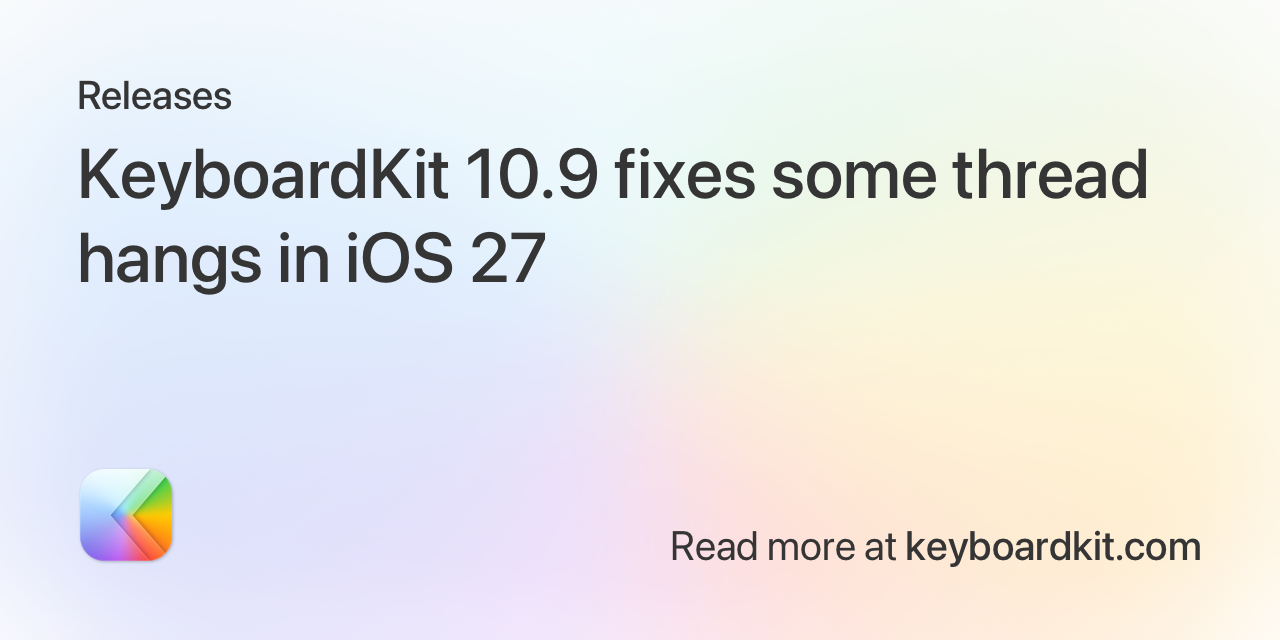
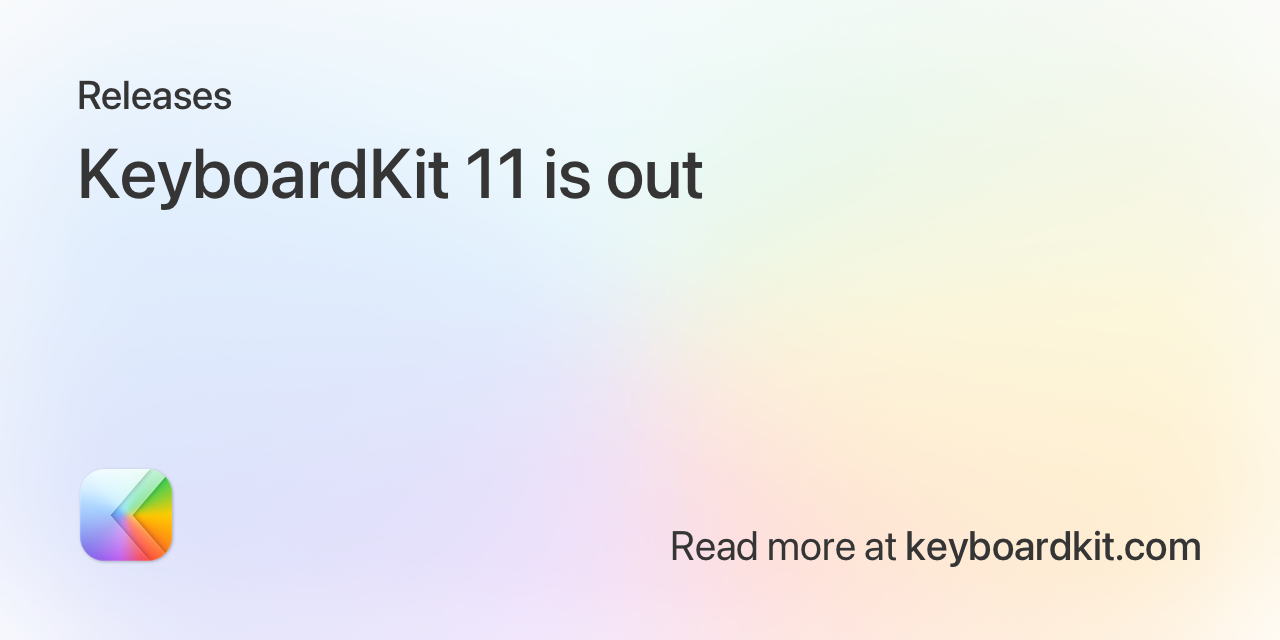
Add new KeyboardKit 11 blog post

Changed region(s): [[0.375, 0.2188, 0.9062, 0.3125], [0.0625, 0.3438, 0.4375, 0.4688]]

diff --git a/collections/_posts/2026/2026-10-01-keyboardkit-11-is-out.md b/collections/_posts/2026/2026-10-01-keyboardkit-11-is-out.md
@@ -1,0 +1,64 @@
+---
+title:  KeyboardKit 11 is out
+date:   2026-10-01 06:00:00 +0100
+tags:   releases
+
+assets: /assets/blog/26/1001/
+image: /assets/versions/11_0.jpg
+image-show: 0
+
+release: https://github.com/KeyboardKit/KeyboardKit/releases/tag/11.0.0
+---
+
+KeyboardKit 11 is out! This major version upgrade is ported to Swift 6.2, and has support for 110+ languages, improved diacritics, new autocomplete & dictation features, a new plugin architecture, and swipe typing tools.
+
+![KeyboardKit header image]({{page.image}})
+
+
+## TL;DR
+
+The biggest structural changes in KeyboardKit 11, that will most likely affect you, are the Swift 6.2 transition, and how controller state moves from the keyboard context to a new main actor controller context, plus how dictation and host app detection use a new plugin architecture to move sensitive code out of the main library.
+
+
+## Package Updates
+
+KeyboardKit 11 uses Swift 6.2. This made it possible to remove a lot of dispatch and `MainActor.run` code, which makes the library more stable. This work involved making more types `MainActor`, while keeping most of the library unchanged. The controller state is therefore moved from the `KeyboardContext` to a new main actor-bound `KeyboardControllerContext`, to keep the core context versatile.
+
+The package is also built in a new way that embeds the dSYMs inside the XCFramework. This means that they will automatically be embedded in your app when submitting it to the App Store. No more manual downloads!
+
+The package also ships three new plugins for autocomplete, dictation, and host application, which you can read more about further down.
+
+
+## New Locales
+
+KeyboardKit 11 almost doubles the number of supported locales, bringing the total to `111`. This was made possible by the improved diacritics engine, which now supports combining marks. As part of this, we have also improved the layout engine and harmonized many layouts, to keep them consistent across configuration changes, and fixed a bunch of incorrect swipe down actions on iPad.
+
+This includes `13` indigenous North American locales (`Apache`, `Blackfoot`, `Chickasaw`, `Chochenyo`, `Choctaw`, `Comanche`, `Kiowa`, `Lushootseed`, `Mvskoke`, `Nez Perce`, `Osage`, `Salish`, and `Wixarika`), `6` Sámi locales (`Kildin Sámi`, `Lule Sámi`, `Pite Sámi`, `Skolt Sámi`, `South Sámi`, and `Ume Sámi`), and `15` other locales (`Afrikaans`, `Basque (France)`, `Basque (Spain)`, `Bosnian`, `English (South Africa)`, `Esperanto`, `Galician (Spain)`, `Kalaallisut`, `Kyrgyz`, `Māori`, `Romansh`, `Samoan`, `Turkmen`, `Yiddish`, and `Zulu`).
+
+We noticed that submitting these fully functional locales to the App Store causes a warning for unsupported locales. Since they are working within the library, we will investigate if we can silence this warning.
+
+
+## Plugins
+
+KeyboardKit 11 adds a new plugin architecture, which lets us move sensitive code, like permissions and system API usage, out of the core library. This plugin model is an exciting new part of KeyboardKit, and will let us build more capabilities and integrations outside of the core SDK, and let you decide which plugins you want to use.
+
+For instance, the `KeyboardKitDictationPlugin` contains all you need to enable dictation, and contains all the code that requires permissions. Also, the `KeyboardKitHostPlugin` has all the sensitive code needed to resolve the host application, which means that you can choose if you want to include it in your app.
+
+The plugin architecture is an exciting new part of KeyboardKit, and will allow us to build more complex features and integrations outside of the main library, and shield the core library from sensitive code.
+
+
+## Swipe Typing
+
+Although KeyboardKit doesn't include a swipe typing engine, KeyboardKit 11 adds new layout tools and a new `KeyboardViewDragGestureOverlay` that makes it possible to swipe over the entire keyboard. You should be able to use these tools to provide a swipe typing engine with enough information to enable it in your app.
+
+
+## Feature Updates
+
+Besides these large updates, KeyboardKit 11 has MANY other feature-specific updates. Please see the [release notes]({{page.release}}) for a full list of changes.
+
+
+## Conclusion
+
+KeyboardKit 11 is by far our biggest release ever! It builds upon the many drastic improvements made to the library in the 10.9 minor version lifecycle, and sets a solid foundation for the year to come.
+
+We are so excited to release this next major version, and can't wait to hear what you think. Don't hesitate to [reach out]({{site.urls.email}}) with your feedback, and please see the [release notes]({{page.release}}) for a full list of changes.
